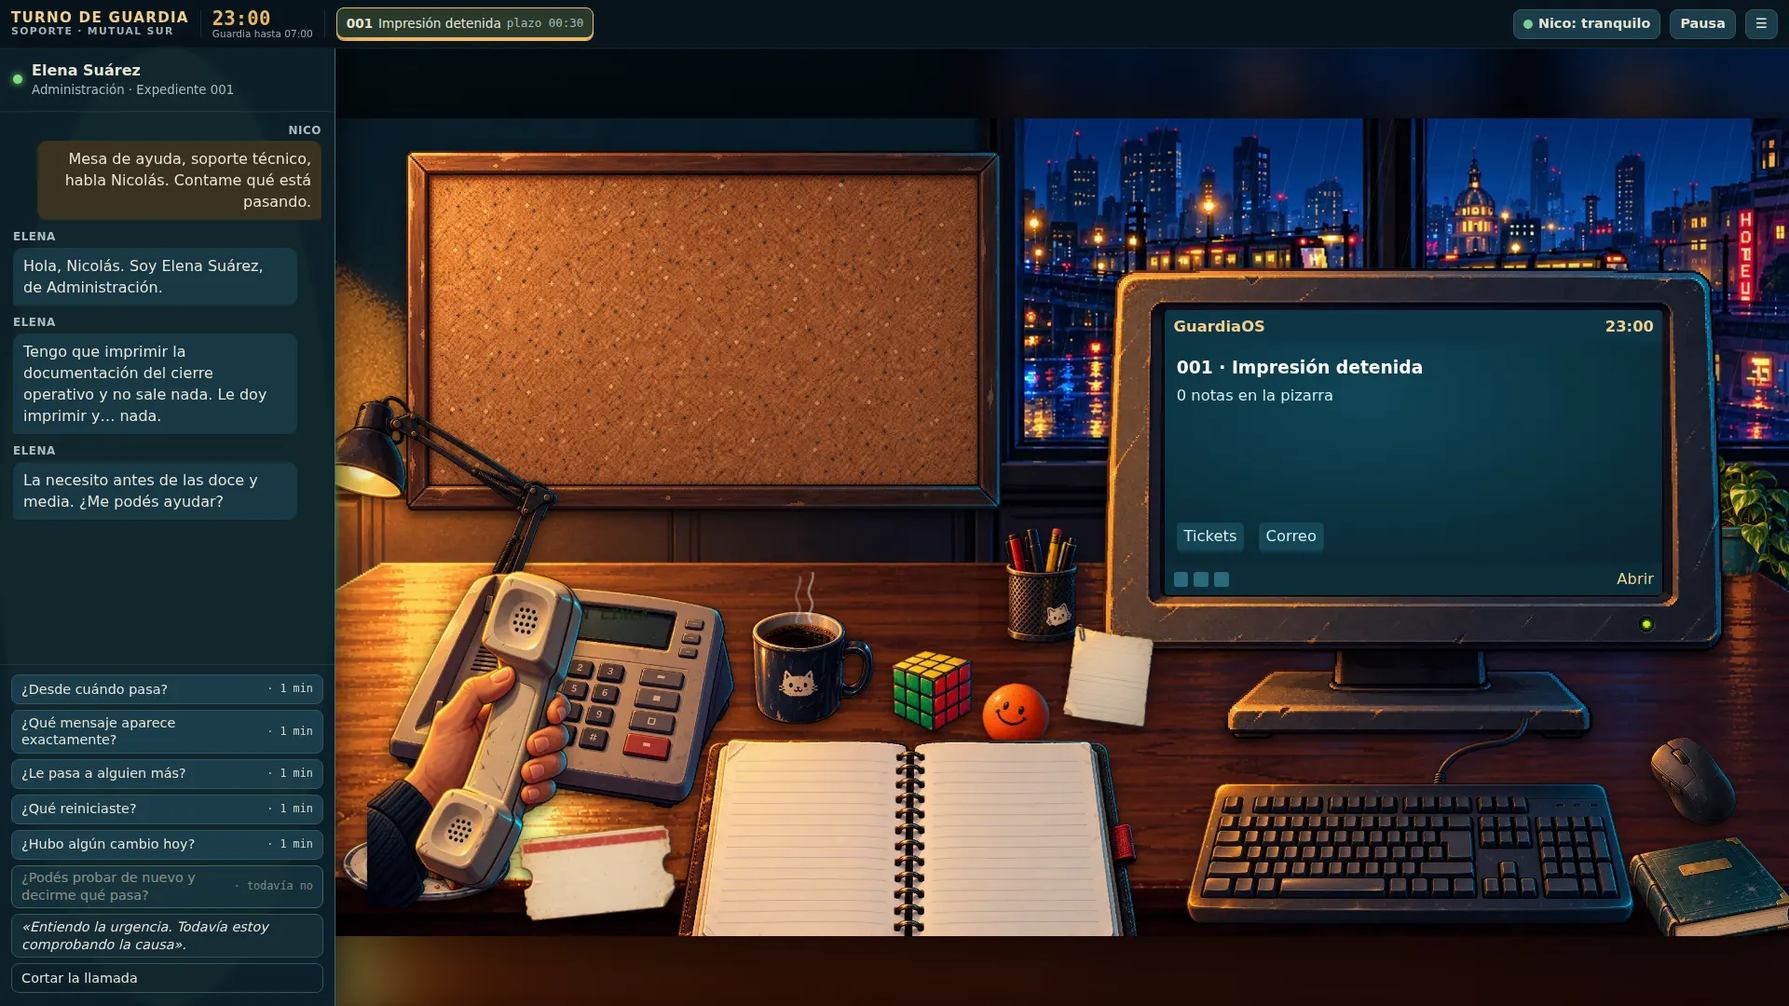
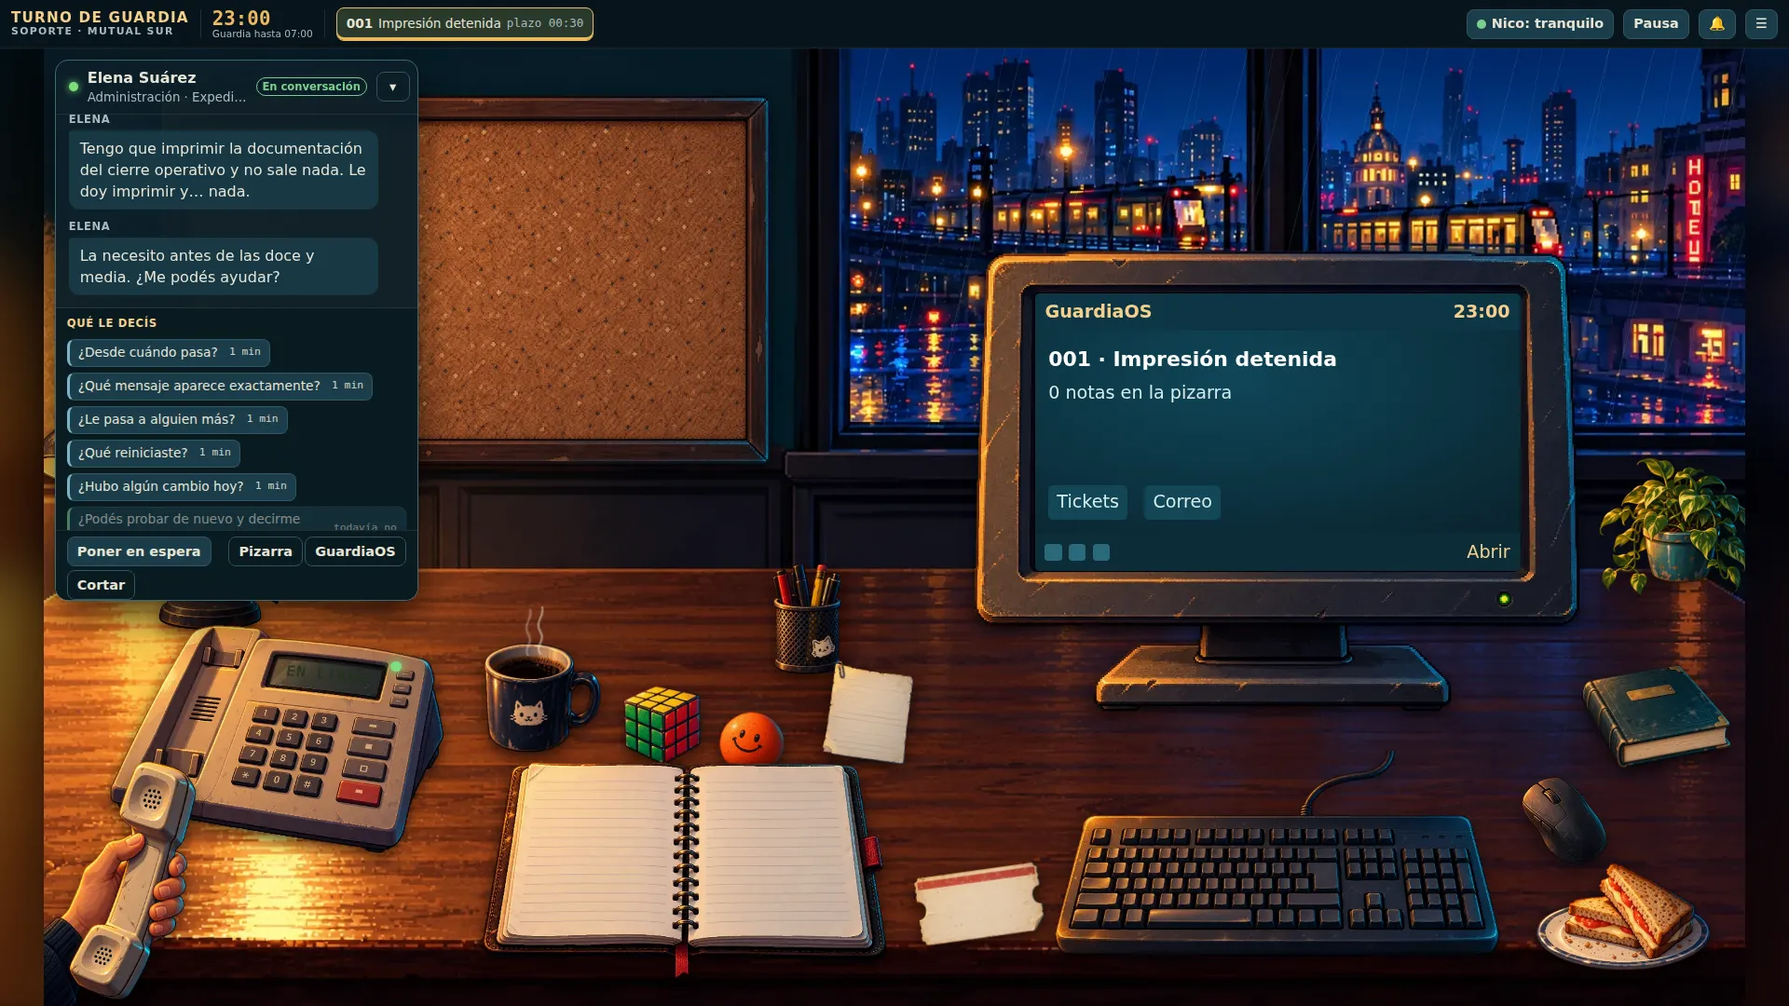
Llamada arriba a la izquierda sin tapar el teléfono, menú ultraancho junto a la mesa y documentación
- La tarjeta de la llamada queda sobre el escenario y no baja hasta el teléfono: la mano
  con el auricular se ve durante la conversación; espera, herramientas y cortar quedan
  siempre visibles y las preguntas se desplazan (prueba e2e de solapamiento).
- Menú: en pantallas muy anchas el texto y el sombreado acompañan a la mesa.
- Capturas comparables regeneradas (15 estados × 4 tamaños), medición de rendimiento
  ampliada a llamada, café, cubo y pelota.
- PROGRESS, ARTE, DECISIONES y ROADMAP (idea del supervisor del tutorial) al día.

Claude-Session: https://claude.ai/code/session_01RCdpmxth3PSrfwJTk2CQuG

diff --git a/src/ui/styles.css b/src/ui/styles.css
@@ -916,9 +916,14 @@ details > summary {
   place-items: center;
   pointer-events: none;
 }
+.menu {
+  /* Margen lateral del escenario del menú: en pantallas muy anchas el texto acompaña a la mesa. */
+  --menu-sw: min(100vw, calc(100vh * 1672 / 941), 2000px);
+  --menu-ml: max(0px, calc((100vw - var(--menu-sw)) / 2));
+}
 .menu-scene .stage {
   /* Encuadre completo del puesto (sin recortar la mesa), con margen ambientado alrededor. */
-  width: min(100vw, calc(100vh * 1672 / 941), 2000px);
+  width: var(--menu-sw);
   box-shadow: 0 0 120px #000c;
 }
 .menu-shade {
@@ -926,7 +931,13 @@ details > summary {
   inset: 0;
   pointer-events: none;
   background:
-    linear-gradient(90deg, #050d12f2 0%, #050d12d9 30%, #050d1266 52%, transparent 70%),
+    linear-gradient(
+      90deg,
+      #050d12f2 var(--menu-ml),
+      #050d12d9 calc(var(--menu-ml) + var(--menu-sw) * 0.3),
+      #050d1266 calc(var(--menu-ml) + var(--menu-sw) * 0.52),
+      transparent calc(var(--menu-ml) + var(--menu-sw) * 0.7)
+    ),
     linear-gradient(0deg, #050d12aa 0%, transparent 30%);
 }
 .menu-panel {
@@ -934,6 +945,7 @@ details > summary {
   z-index: 2;
   min-height: 100%;
   width: min(560px, 100%);
+  margin-left: var(--menu-ml);
   padding: clamp(28px, 8vh, 96px) clamp(20px, 5vw, 72px) 28px;
   display: flex;
   flex-direction: column;
@@ -1116,9 +1128,32 @@ details > summary {
 }
 .call-card {
   width: min(390px, calc(100vw - 24px));
-  max-height: calc(100vh - var(--hud-h) - 24px);
+  /* Arriba a la izquierda del escenario y sin bajar hasta el teléfono: la mano con el
+     auricular (y el aparato) quedan a la vista durante la conversación. */
+  top: calc(var(--hud-h) + var(--sb) + 12px);
+  bottom: auto;
+  max-height: calc(var(--sh) * 0.585 - 20px);
   display: flex;
   flex-direction: column;
+}
+.call-card .call-log-wrap {
+  flex: 1 1 auto;
+  min-height: 96px;
+}
+.call-card .call-foot {
+  flex: 0 1 auto;
+  min-height: 0;
+  overflow: auto;
+}
+/* Espera, herramientas y cortar siempre a la vista; las preguntas se desplazan por encima. */
+.call-card .call-actions {
+  position: sticky;
+  bottom: -10px;
+  margin: 4px -12px -10px;
+  padding: 6px 12px 10px;
+  background: #0a1a21;
+  border-top: 1px solid #ffffff14;
+  z-index: 1;
 }
 .call-pill {
   display: flex;
@@ -2672,6 +2707,8 @@ details > summary {
   }
   .call-card {
     width: auto;
+    top: auto;
+    bottom: 8px;
     max-height: 62vh;
   }
   .call-log {

diff --git a/e2e/04-ui.spec.ts b/e2e/04-ui.spec.ts
@@ -277,6 +277,24 @@ test('la llamada no mueve la mesa: atender, contraer, espera, retomar y cortar',
   const call = page.locator('aside.call');
   await expect(call).toContainText('En conversación');
   expect(await boxes()).toEqual(before);
+  // La tarjeta no tapa el teléfono (se ve la mano con el auricular) y deja libre parte del corcho.
+  const free = await page.evaluate(() => {
+    const card = document.querySelector('aside.call')!.getBoundingClientRect();
+    const phone = document.querySelector('[data-target=phone]')!.getBoundingClientRect();
+    const pose = document.querySelector('.pose-phone')!.getBoundingClientRect();
+    const board = document.querySelector('[data-target=board]')!.getBoundingClientRect();
+    return {
+      phone: card.bottom <= phone.top + 4,
+      pose: card.bottom <= pose.top,
+      boardX: board.right - 40,
+      boardY: board.top + board.height / 2,
+      boardFree: board.right - card.right > 60,
+    };
+  });
+  expect(free).toMatchObject({ phone: true, pose: true, boardFree: true });
+  await page.mouse.click(free.boardX, free.boardY);
+  await expect(page.getByRole('dialog', { name: /Pizarra/ })).toBeVisible();
+  await closePanel(page);
   await call.getByRole('button', { name: 'Poner en espera' }).click();
   await expect(call).toContainText('En espera');
   await expect(call).toContainText('te pongo un momento en espera');

diff --git a/e2e/01-practice.spec.ts b/e2e/01-practice.spec.ts
@@ -28,8 +28,8 @@ test('primera partida: práctica jugable completa y transición a Elena', async 
   await expect(session).toContainText('Monitor HDMI');
   await closePanel(page);
 
-  // 4. Pizarra: conectar la comprobación con una hipótesis y tomarla.
-  await page.getByRole('button', { name: 'Pizarra de pruebas' }).click();
+  // 4. Pizarra (desde la tarjeta de la llamada): conectar la comprobación con una hipótesis y tomarla.
+  await page.locator('aside.call').getByRole('button', { name: 'Pizarra', exact: true }).click();
   await page.getByRole('button', { name: /sale por un dispositivo sin parlantes/ }).click();
   await page.getByRole('button', { name: /Comprobé: La salida de sonido/ }).click();
   await expect(page.locator('.note.on')).toHaveCount(1);

diff --git a/src/ui/panels/Tutorial.tsx b/src/ui/panels/Tutorial.tsx
@@ -37,7 +37,10 @@ export function tutorialStep(g: GameState, panel: PanelState | null): Step | nul
           text: 'Elegí la hipótesis que te parezca y tocá la nota para conectarla. Si dudás, el cuaderno tiene ayuda (es opcional).',
           focus: null,
         }
-      : { text: 'Esa comprobación ya está en la pizarra. Abrila: clic en el corcho.', focus: 'board' };
+      : {
+          text: 'Esa comprobación ya está en la pizarra. Abrila: clic en el corcho o en «Pizarra», en la llamada.',
+          focus: 'board',
+        };
   if (!cs.workingHyp)
     return { text: 'Si la nota la apoya, tomala como hipótesis de trabajo.', focus: 'board' };
   if (!done('i-headset')) {

diff --git a/docs/PROGRESS.md b/docs/PROGRESS.md
@@ -1,35 +1,43 @@
 # Progreso — Turno de Guardia
 
-Rama: `claude/turno-guardia-game-8upsky`. Estado: **noche 1 completa y jugable** (etapas A–F).
+Rama: `claude/turno-guardia-game-8upsky`. Estado: **noche 1 completa y jugable** (etapas A–F) + **iteración de pulido visual e interacción** (6 etapas, todas subidas).
 
 ## Hecho
 
 - **A. Base**: Vite 8.3 + React 19.3 + TypeScript 6.0 estricto, ESLint 10, Prettier, Vitest 5, Playwright 1.56 (lockfile). `CLAUDE.md`, 4 skills en `.claude/skills/`, fichas en `docs/CASOS.md`.
-- **Motor** (`src/engine`): reloj único 23:00–07:00 con cola de eventos ordenada; casos declarativos; pizarra con respaldo por notas; necesidades de Nico; pausas; cubo 3×3 real; informes y resumen.
+- **Motor** (`src/engine`): reloj único 23:00–07:00 con cola de eventos ordenada; casos declarativos; pizarra con respaldo por notas; necesidades de Nico; pausas; cubo 3×3 real (con capas del medio); espera y despedida en llamadas; informes y resumen.
 - **Contenido**: práctica «audio», 001 impresión (3 causas; semillas 7/1/2), 002 carpeta compartida por correo, 003 portal caído por alerta automática.
-- **B. Escena**: 24 recursos optimizados (36 MB → 1,3 MB WebP), matte del monitor corregido, vidrio y auricular calibrados (`docs/ARTE.md`), menú sobre la mesa real.
-- **C/D**: GuardiaOS con 13 aplicaciones y ventanas (mover, minimizar, restaurar, cerrar, menú contextual, teclado); llamada con diálogo consecutivo; correo con respuestas contextuales; pizarra con hilos anclados; cuaderno y manual; hasta dos casos activos; historial; plazos y consecuencias; informes.
-- **E**: estado de Nico y pausas (café, comer, baño, patio, fumar), pelota, cubo, gato (easter egg local), segundo monitor desbloqueable.
-- **F**: móvil con navegación propia, ultrawide con márgenes ambientados, sonido sintetizado, capturas en `docs/capturas`, medición de rendimiento.
+- **Iteración de pulido** (pedido con `referencia.zip`):
+  1. Encuadre abierto, visor del teléfono en perspectiva, llamada como capa estable (no mueve la mesa).
+  2. Menú con composición propia (escena ambiental sin mensajes de casos, jerarquía Continuar/Nueva guardia) y pizarra de corcho en todos sus estados, con archivados.
+  3. Llamadas: entrante/conversación/en espera/retomada/finalizada, despedida según el resultado, informe en tres partes (resolución técnica, razonamiento documentado, buenas prácticas), voces estilizadas con volumen propio.
+  4. Correo completo (carpetas, leído/no leído, conversación por expediente, adjunto en visor), navegador de intranet (historial, portal, base de conocimiento, estado ligado al motor, errores diferenciados), ventanas en el área útil y recordadas.
+  5. Café desde la taza (levantar/acercar/devolver, se salta), sándwich desde el plato (duración y aviso previo, mordiscos), resumen compacto de pausas y bandeja de avisos.
+  6. Cubo 3D en la mano (three.js a pedido, gestos por capa y objeto, teclado) y pelota que se aprieta (mouse, toque, teclado; efecto único por el motor).
+- Supervisor del tutorial: sólo registrado como idea en `docs/ROADMAP.md`.
 
 ## Verificado (ejecutado de verdad)
 
-- `npm run check`: tipos, lint, formato, **60 pruebas** (motor, cubo, guardado) y build — en verde.
-- `npm run test:e2e`: **16 recorridos** en Chromium headless — en verde: práctica y transición; 3 causas del 001; intervención equivocada con costo (incluye consola); noche completa 002/003 + resumen + mejora + rejugar; dos casos activos; recarga a mitad de guardia y práctica; seguimiento de Elena y plazo vencido; pizarra por teclado con hilos alineados tras resize y zoom 125 %; ventanas y menú contextual; pausas, pelota, cubo y gato; layouts 1366×768, 1920×1080, 3440×1440, 390×844 sin scroll horizontal ni errores de consola.
-- Revisión automática: 0 botones/controles sin nombre accesible en menú, mesa, llamada, GuardiaOS, pizarra y cubo.
-- Rendimiento (`scripts/perf.mjs`, Chromium headless sin GPU, 1366×768, build de producción): entrada→pintado 32–96 ms en la mayoría de interacciones; cortar la llamada ~128 ms (la escena cambia de tamaño); 3 tareas largas, máx. 86 ms.
+- `npm run check`: tipos, lint, formato, **68 pruebas** (motor, cubo con gestos contra geometría, guardado con compatibilidad de partidas anteriores) y build — en verde.
+- `npm run test:e2e`: **21 recorridos** en Chromium headless — en verde. Incluye: práctica; 3 causas del 001; noche completa con correo/navegador nuevos; dos casos activos; recarga; seguimiento y plazo; pizarra por teclado con hilos alineados (1366, 1920, zoom 125 %); ventanas dentro del área útil, recordadas y corregidas al achicar; menú sin avanzar el reloj; pizarra vacía y archivados; la llamada no mueve la mesa, no tapa teléfono ni mano y deja libre parte del corcho; espera → recarga → retomar → despedida → informe → historial; voces (contador de murmullos, se detienen al completar/espera); café una sola vez con doble clic; sándwich con aviso y mordisco; pelota con teclado y mouse (soltar fuera no la traba); cubo con arrastre de capa, arrastre del objeto, teclado, deshacer y guardado tras recargar; layouts 1366×768, 1920×1080, 3440×1440 y 390×844 sin scroll horizontal ni errores de consola.
+- Capturas comparables (`node scripts/capturas.mjs`): 15 estados × 4 tamaños en `docs/capturas`, revisadas; comparación antes/después generada con las capturas previas a la iteración.
+- Grabaciones (`node scripts/grabacion.mjs`): llamada con espera, café y comida, cubo y pelota (webm); revisadas cuadro a cuadro.
+- Rendimiento (`scripts/perf.mjs`, headless sin GPU, 1366×768, build de producción): entrada→pintado ≤ 80 ms en todas las interacciones de juego (atender, contraer/expandir, espera, retomar, cortar, café, pizarra, cubo, pelota) y 144 ms al crear la guardia; levantar el cubo (descarga de three.js incluida) ~380 ms de reloj; 4 tareas largas, máx. 138 ms. Los tiempos de reloj altos de «Abrir pizarra» y «Retomar» incluyen la espera a que termine de aparecer el texto de la llamada, no trabajo del navegador.
 
 ## No verificado / límites
 
-- No se probó con lector de pantalla real; sólo atributos ARIA y navegación por teclado.
-- El audio no se escuchó (entorno sin salida de sonido). Sólo consta que los recorridos no dan errores de consola; que no suene antes de un gesto del usuario está en el código (`sound.unlock`) pero no se midió.
-- Rendimiento medido en un navegador headless sin GPU; no se afirma 60 fps. Conviene repetir `scripts/perf.mjs` en el equipo del usuario.
-- Aprobación artística final: pendiente de que el usuario mire `docs/capturas` o el juego.
+- **Audio no escuchado** (entorno sin salida de sonido): los murmullos se verificaron sólo por contadores internos (`window.__tdgSound.stats`): cantidad, corte al completar/espera/silencio. Timbre, volumen y agrado quedan por oír.
+- No se probó con lector de pantalla real; sólo atributos ARIA y teclado.
+- Rendimiento y WebGL medidos en headless con SwiftShader; conviene repetir `scripts/perf.mjs` en el equipo del usuario. Si WebGL no está disponible, el cubo muestra un aviso y una red plana y se sigue girando con teclado (no probado en un navegador sin WebGL).
+- Gestos táctiles del cubo y la pelota: probados con eventos de puntero de mouse; no en un dispositivo táctil real.
+- En móvil los avisos temporales (≈4 s) pueden tapar un momento el encabezado de un panel.
+- `npm audit` informa una vulnerabilidad alta en `sharp` (sólo herramienta de assets, no llega al juego); su arreglo es un cambio mayor y quedó sin aplicar.
+- Aprobación artística final: pendiente de que el usuario mire las capturas, las grabaciones o el juego.
 
 ## Siguiente acción exacta
 
-Ninguna obligatoria. Opcional: ejecutar `node scripts/perf.mjs` en el equipo del usuario y revisar el arte en vivo; luego diseñar la noche 2 con la skill `diseno-de-casos` (`docs/ROADMAP.md`).
+Ninguna obligatoria. Opcional: jugar en vivo para escuchar las voces y ajustar su volumen por defecto; repetir `node scripts/perf.mjs` en el equipo del usuario; diseñar la noche 2 o el supervisor del tutorial con la skill `diseno-de-casos` (`docs/ROADMAP.md`).
 
 ## Archivos clave
 
-`src/engine/game.ts`, `src/content/cases/*.ts`, `src/application/store.ts`, `src/ui/Desk.tsx`, `src/ui/os/apps.tsx`, `src/ui/panels/BoardPanel.tsx`, `src/content/station.ts`, `e2e/*.spec.ts`.
+`src/engine/game.ts`, `src/engine/cube.ts`, `src/content/cases/*.ts`, `src/content/station.ts`, `src/application/store.ts`, `src/ui/Desk.tsx`, `src/ui/panels/CallPanel.tsx`, `src/ui/panels/PauseCard.tsx`, `src/ui/panels/cube3d.ts`, `src/ui/os/mail.tsx`, `src/ui/os/browser.tsx`, `src/ui/os/windows.ts`, `e2e/*.spec.ts`, `scripts/capturas.mjs`, `scripts/grabacion.mjs`.

diff --git a/docs/ARTE.md b/docs/ARTE.md
@@ -16,9 +16,13 @@ Manifiesto de derivados: `src/content/art-manifest.json`. Posiciones: `src/conte
 ## Calibraciones
 
 - **Vidrio del monitor**: medido sobre el derivado con grilla al 5 %: x 10,3 %, y 9,7 %, ancho 79,5 %, alto 59,7 % (`MONITOR_GLASS`). La estimación del paquete (zona semitransparente) era más chica y desplazada.
-- **Auricular**: se midieron las dos horquillas de la base (eje a ~22–25° de la vertical, igual que el auricular). Escala y posición ajustadas para apoyar ambos extremos: `x 110, y 534, ancho 115` con la base en `x 60, y 522, ancho 400`. Verificado en montaje ampliado ×2 y en la escena.
-- **Mano con auricular**: anclada al borde inferior izquierdo (el brazo está cortado en el lienzo). Oculta el auricular suelto. Sin puntero.
-- **Mano con taza**: se muestra 1,6 s después de una pausa de café; oculta la taza de la mesa.
+- **Encuadre abierto** (`station.ts`): los objetos se reubicaron para que ninguno quede cortado en los bordes; la base del teléfono está en `x 64, y 566, ancho 330` y el auricular se deriva de ella con la calibración de las horquillas (`HANDSET_CAL`: desplazamiento 50/12 y ancho 115 sobre 400), así se mueven juntos. Coordenadas de escena (fondo 1672×941) separadas de las posiciones de la interfaz (`--sw/--sh/--sl/--sb`, escenario con tope de 1840 px).
+- **Visor del teléfono**: tres esquinas del LCD medidas sobre el dibujo (`PHONE_LCD`); el texto («LLAMADA», «EN ESPERA», «EN LÍNEA», hora) es SVG con una matriz afín que sigue la perspectiva del visor.
+- **Mano con auricular**: anclada al borde inferior izquierdo (el brazo está cortado en el lienzo), `x −10, y 700, ancho 160`. Oculta el auricular suelto; en espera se guarda y vuelve el auricular a la base. La tarjeta de la llamada va arriba a la izquierda y no baja hasta el teléfono (prueba e2e), así la mano queda a la vista. Sin puntero.
+- **Mano con taza**: al hacer clic en la taza, la mano levanta, acerca y devuelve la taza (2,1 s, se salta con clic/Esc/Enter/Espacio; 0,7 s estática con movimiento reducido). Oculta la taza de la mesa: nunca hay dos tazas.
+- **Sándwich**: el texto describe un sándwich tostado (como el dibujo). Cada comida deja un mordisco hecho con máscara CSS sobre el derivado (sin deformarlo ni editar el recurso); dos mordiscos como máximo, ubicados sobre zonas del pan que no pisan el plato.
+- **Cubo en la mano**: modelo 3D (three.js) con los colores del dibujo, luz cálida desde la lámpara (izquierda) y relleno frío del monitor. El sprite de la mesa se oculta mientras se sostiene y el objeto vuelve a su lugar con animación.
+- **Pelota en la mano**: el mismo dibujo, ampliado; se aplasta contra el borde inferior (escala 1,22 × 0,70, sombra más ancha y sombreado interno) y rebota al soltar. El sprite de la mesa se oculta mientras se sostiene.
 - **Mano con mouse**: no se usa. Con GuardiaOS abierto quedaría detrás del panel, y fuera de él no hay acción que la justifique sin parecer un cursor. Se documenta como decisión.
 - Mesa: la superficie empieza en y≈512 del fondo; todos los objetos apoyados tienen su base por debajo.
 - Segundo monitor: reutiliza la carcasa a 276 px de ancho a la derecha; con la mejora, el monitor principal se corre a la izquierda.
@@ -30,4 +34,4 @@ Lluvia recortada al vidrio (sólo `transform`, pausada con pestaña oculta y mov
 ## Pendiente artístico
 
 - La aprobación final del arte corresponde al usuario mirando la escena real (`docs/capturas`).
-- El texto «LLAMADA» del visor del teléfono es DOM sobre el LCD dibujado; con ángulo aproximado.
+- La mano con auricular queda parcialmente cortada por el borde inferior en 16:9 (el brazo del dibujo termina ahí): es intencional, pero conviene mirarlo en vivo.

diff --git a/docs/DECISIONES.md b/docs/DECISIONES.md
@@ -10,6 +10,12 @@
 - **Esperar**: salta al próximo evento que puede cambiar algo; se omiten seguimientos y plazos de expedientes resueltos.
 - **Práctica**: estado separado de la campaña, sin reloj ni penalizaciones; se guarda aparte y puede repetirse desde el menú.
 - **Mejora**: segundo monitor al resolver y verificar al menos dos expedientes en una noche. En móvil se convierte en un acceso rápido «Correo/Hist.».
-- **Cubo**: modelo 3D de 54 pegatinas con rotaciones reales; se guarda en el perfil. No da beneficios de juego.
+- **Cubo**: modelo de 54 pegatinas con rotaciones reales, ahora con capas del medio (M, E, S); se guarda en el perfil. No da beneficios de juego. Dibujo 3D con three.js en un fragmento propio (~140 kB gzip) que se descarga al levantar el cubo y se libera (contexto WebGL incluido) al devolverlo; dibuja sólo cuando algo cambia. El gesto elige, entre los dos ejes de la cara tocada, el que mejor sigue al arrastre en pantalla; más de ~35° completa el cuarto de vuelta. La correspondencia gesto→movimiento está probada contra la geometría.
 - **Sonido**: síntesis WebAudio (sin archivos de terceros), sólo tras un gesto del usuario.
 - **Hallazgos corregidos al jugar** (e2e): íconos del escritorio tapados por ventanas; correo que no mostraba la respuesta nueva; «Esperar» que frenaba en eventos irrelevantes; panel de llamada que tapaba la pizarra (ahora la escena se corre); en móvil la llamada se reduce a una barra al abrir un panel.
+- **Espera y despedida**: poner en espera es una acción sin costo con una frase de Nico; al retomar se mide la espera en minutos simulados (más de 15 cuesta confianza y se informa). No hay castigo en tiempo real. Al cerrar un expediente de teléfono, Nico se despide dentro de la llamada y el informe aparece al colgar; en correo se envía un mensaje de cierre.
+- **Pausas**: café desde la taza y sándwich desde el plato; el motor aplica la pausa una sola vez al confirmar y la animación es sólo visual. El resultado es un resumen compacto no modal (tiempo, efectos netos, novedades con acceso directo) y los avisos quedan en una bandeja del HUD.
+- **Pelota**: apretar no tiene efecto por apretón; la pausa (2 min, límite de 30 min para el efecto completo) se aplica una vez al devolverla, y sólo sin llamada activa (sí en espera).
+- **Ventanas de GuardiaOS**: tamaño inicial según el área útil (a la derecha de los íconos, sobre la barra), cascada, geometría recordada en `tdg.ventanas` (interfaz, no partida) y corregida al achicar la pantalla.
+- **Navegador**: historial propio (atrás/adelante/recargar/inicio); la página de estado depende del motor (servicio del portal); cargar el portal durante el 003 es una comprobación con costo, como las demás.
+- **Compatibilidad de guardado**: los campos nuevos son opcionales (`held`, `heldSince`, `ended`, `voiceVolume`) y el historial del cubo se valida al cargar; hay pruebas con guardados anteriores.

diff --git a/docs/ROADMAP.md b/docs/ROADMAP.md
@@ -12,3 +12,7 @@ Ideas de noche 2 (no implementadas):
 - Correo masivo sospechoso (phishing) con decisión de contención.
 - Variantes adicionales del 002 (grupo correcto pero herencia de permisos cortada) y del 003 (base de datos llena).
 - Progreso: más ranuras del puesto (radio de pasillo, lámpara regulable) sólo si cambian algo jugable.
+
+## Idea registrada (no implementada): supervisor del tutorial
+
+Un supervisor de guardia que acompaña la práctica con comentarios breves y ocasionales (por ejemplo, «Anotá lo que te dijo antes de probar cosas» o «Esa prueba ya la hiciste: releerla es gratis»), sin reemplazar la pista del tutorial ni dar la causa. Posibles reglas: aparece como mensaje corto en el HUD o en el correo interno, como máximo uno cada varios pasos, se puede silenciar en Opciones y nunca aparece en la campaña salvo que el jugador lo active. Pendiente de diseño con la skill `diseno-de-casos`; no se implementó otro sistema de personajes en esta iteración.
